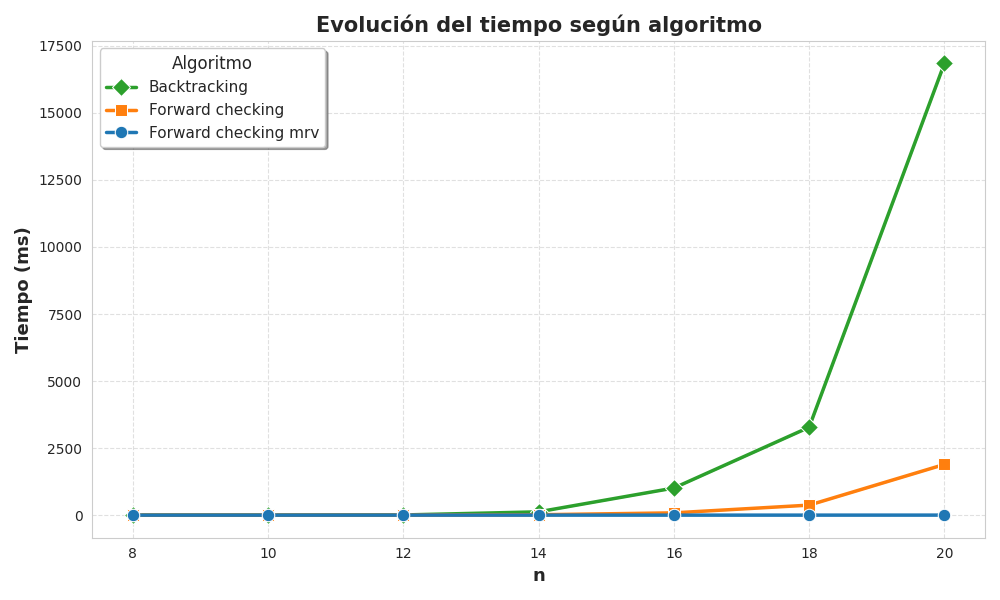
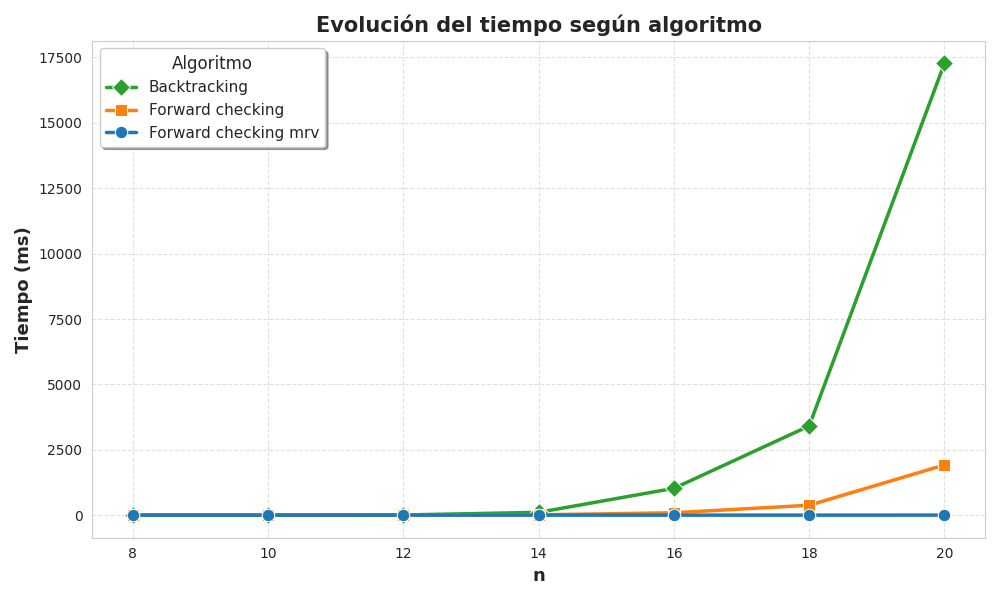
fix

diff --git a/ochoreinas.py b/ochoreinas.py
@@ -323,3 +323,4 @@ if __name__ == "__main__":
     plt.savefig("plots/backtracks_vs_n.png")
     plt.close()
 
+    dfResultados.to_csv("resultados.csv", index=False)
